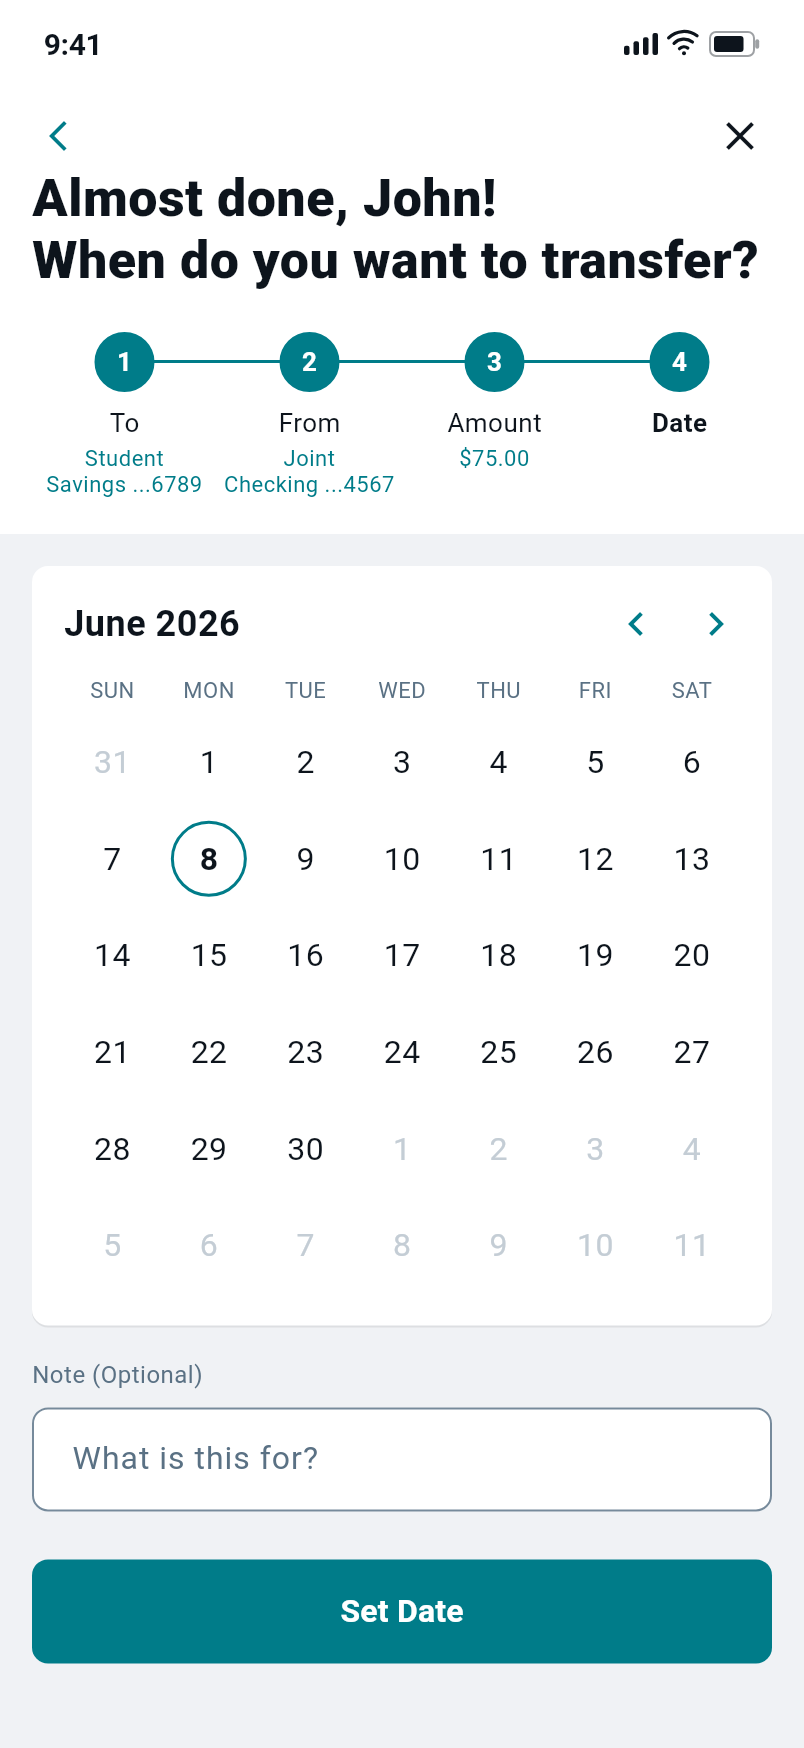
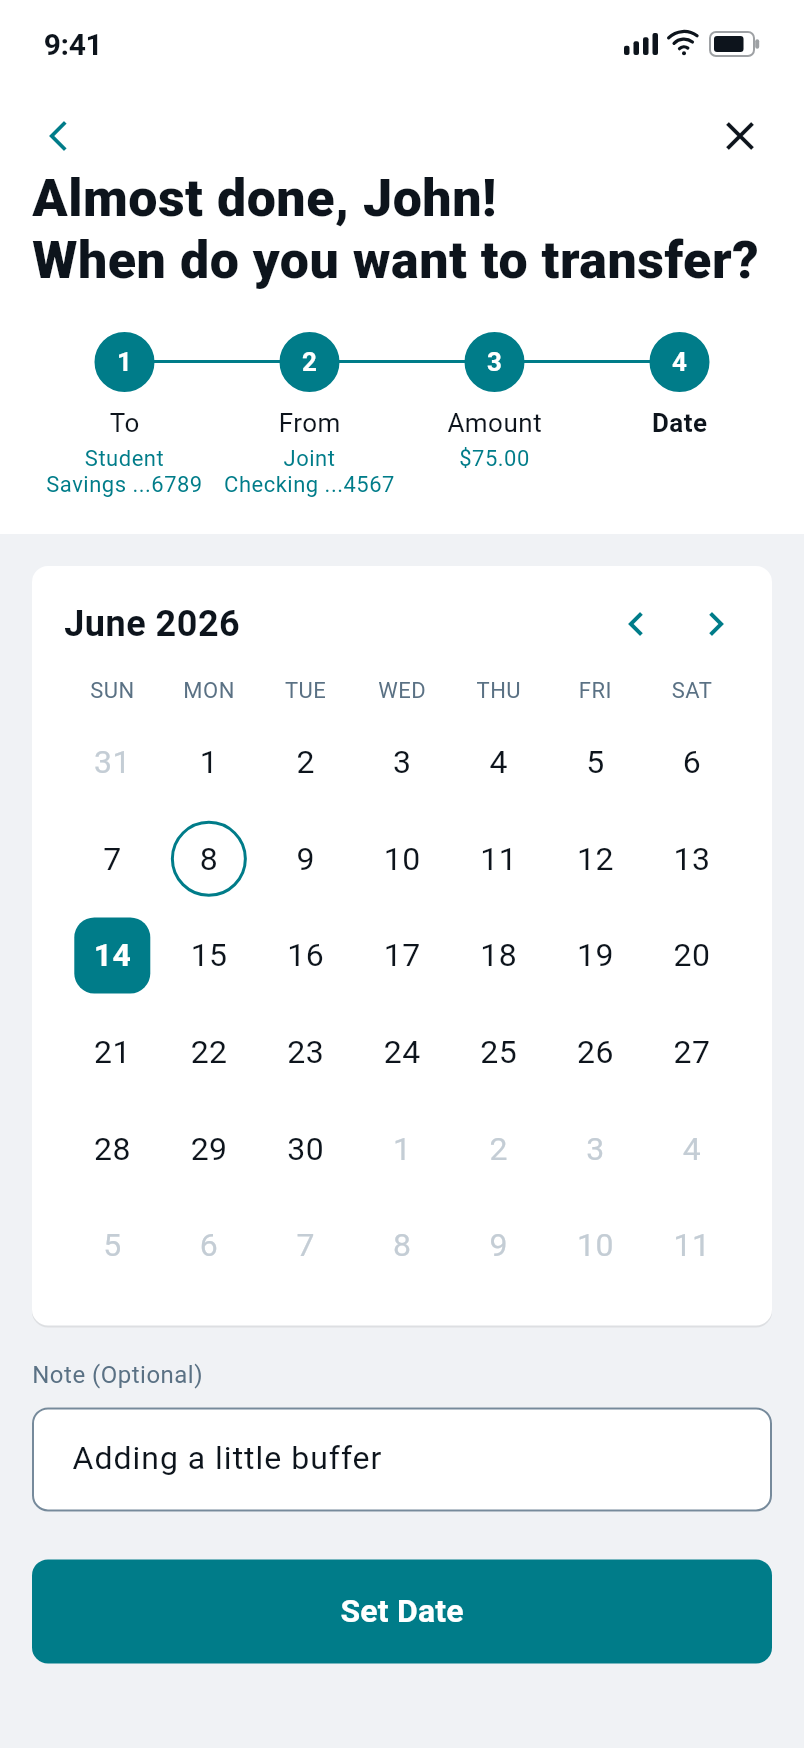
Add transfer review step and fix date calendar markers
Calendar now shows today (June 8) as a fixed open circle and the user's
chosen date as a filled rounded square; Set Date is gated on a
selection. Set Date opens a review screen listing To/From/Amount/Date/
Note, each with an edit pencil that jumps back to that step, plus a
Confirm action that completes the transfer.

https://claude.ai/code/session_01NuCKxaSF8m2VXGLc8nwLxh

diff --git a/lib/screens/transfer_screen.dart b/lib/screens/transfer_screen.dart
@@ -6,6 +6,7 @@ import '../data/mock_data.dart';
 import '../data/models.dart';
 import '../theme/app_theme.dart';
 import '../widgets/becu_logo.dart';
+import '../widgets/detail_row.dart';
 import '../widgets/surface_card.dart';
 
 /// Transfer flow with four steps tracked across the top:
@@ -18,7 +19,8 @@ class TransferScreen extends StatefulWidget {
     this.initialToAccount,
     this.initialFromAccount,
     this.initialAmountCents = 0,
-    this.initialSelectedDay = 8,
+    this.initialSelectedDay,
+    this.initialNote = '',
     this.initialKeypadOpen = false,
   });
 
@@ -26,7 +28,8 @@ class TransferScreen extends StatefulWidget {
   final Account? initialToAccount;
   final Account? initialFromAccount;
   final int initialAmountCents;
-  final int initialSelectedDay;
+  final int? initialSelectedDay;
+  final String initialNote;
   final bool initialKeypadOpen;
 
   @override
@@ -38,15 +41,22 @@ class _TransferScreenState extends State<TransferScreen> {
   late Account? _toAccount = widget.initialToAccount;
   late Account? _fromAccount = widget.initialFromAccount;
   late int _amountCents = widget.initialAmountCents;
-  late int _selectedDay = widget.initialSelectedDay;
+  late int? _selectedDay = widget.initialSelectedDay;
   late bool _keypadVisible = widget.initialKeypadOpen;
   final FocusNode _amountFocus = FocusNode();
+  late final TextEditingController _noteController =
+      TextEditingController(text: widget.initialNote);
+
+  /// Fixed "today" marker shown as an open circle on the calendar.
+  static const _todayDay = 8;
+
   bool _becuExpanded = true;
   bool _externalExpanded = true;
 
   @override
   void dispose() {
     _amountFocus.dispose();
+    _noteController.dispose();
     super.dispose();
   }
 
@@ -108,14 +118,18 @@ class _TransferScreenState extends State<TransferScreen> {
     }
   }
 
-  void _setDate() {
+  void _toReview() => setState(() => _step = 4);
+
+  void _editStep(int step) => setState(() => _step = step);
+
+  void _confirm() {
     ScaffoldMessenger.of(context)
       ..hideCurrentSnackBar()
       ..showSnackBar(
         SnackBar(
           content: Text(
-            'Transfer of ${formatCurrency(_amountCents / 100)} scheduled '
-            'for Jun $_selectedDay, 2026.',
+            'Transfer of ${formatCurrency(_amountCents / 100)} to '
+            '${_toAccount?.nickname ?? 'your account'} confirmed.',
           ),
         ),
       );
@@ -127,7 +141,8 @@ class _TransferScreenState extends State<TransferScreen> {
         1 => 'Where is the money from?',
         2 => 'How much would you like to transfer to '
             '${_toAccount?.nickname ?? 'your account'}?',
-        _ => 'Almost done, John!\nWhen do you want to transfer?',
+        3 => 'Almost done, John!\nWhen do you want to transfer?',
+        _ => "Let's confirm everything looks good to you.",
       };
 
   @override
@@ -184,12 +199,14 @@ class _TransferScreenState extends State<TransferScreen> {
                   ],
                   const SizedBox(height: 20),
                   _StepTracker(
-                    activeStep: _step,
+                    activeStep: _step > 3 ? 3 : _step,
                     subLabels: [
                       _toAccount?.displayName,
                       _fromAccount?.displayName,
                       _step >= 3 ? formatCurrency(_amountCents / 100) : null,
-                      null,
+                      _step >= 4 && _selectedDay != null
+                          ? 'June $_selectedDay, 2026'
+                          : null,
                     ],
                   ),
                   if (_step == 0) ...[
@@ -207,7 +224,8 @@ class _TransferScreenState extends State<TransferScreen> {
                 0 => _buildToList(),
                 1 => _buildFromList(),
                 2 => _buildAmountStep(),
-                _ => _buildDateStep(),
+                3 => _buildDateStep(),
+                _ => _buildReviewStep(),
               },
             ),
           ),
@@ -413,6 +431,7 @@ class _TransferScreenState extends State<TransferScreen> {
       padding: const EdgeInsets.fromLTRB(16, 16, 16, 24),
       children: [
         _CalendarCard(
+          todayDay: _todayDay,
           selectedDay: _selectedDay,
           onSelect: (day) => setState(() => _selectedDay = day),
           onMonthChange: () => _notice('Changing the month'),
@@ -422,6 +441,7 @@ class _TransferScreenState extends State<TransferScreen> {
             style: TextStyle(fontSize: 12, color: AppColors.slate)),
         const SizedBox(height: 8),
         TextField(
+          controller: _noteController,
           decoration: InputDecoration(
             hintText: 'What is this for?',
             hintStyle: const TextStyle(color: AppColors.slate),
@@ -444,9 +464,10 @@ class _TransferScreenState extends State<TransferScreen> {
           width: double.infinity,
           height: 52,
           child: ElevatedButton(
-            onPressed: _setDate,
+            onPressed: _selectedDay != null ? _toReview : null,
             style: ElevatedButton.styleFrom(
               backgroundColor: AppColors.teal,
+              disabledBackgroundColor: AppColors.monthBar,
               shape: RoundedRectangleBorder(
                 borderRadius: BorderRadius.circular(8),
               ),
@@ -457,6 +478,96 @@ class _TransferScreenState extends State<TransferScreen> {
                 color: Colors.white,
                 fontSize: 16,
                 fontWeight: FontWeight.w700,
+              ),
+            ),
+          ),
+        ),
+      ],
+    );
+  }
+
+  Widget _buildReviewStep() {
+    Widget editIcon(int step) => InkWell(
+          onTap: () => _editStep(step),
+          customBorder: const CircleBorder(),
+          child: const Padding(
+            padding: EdgeInsets.all(4),
+            child: Icon(Icons.edit_outlined, size: 20, color: AppColors.teal),
+          ),
+        );
+
+    return Column(
+      children: [
+        Expanded(
+          child: ListView(
+            padding: const EdgeInsets.fromLTRB(16, 16, 16, 24),
+            children: [
+              SurfaceCard(
+                padding: EdgeInsets.zero,
+                child: Column(
+                  children: [
+                    DetailRow(
+                      label: 'To',
+                      value: _toAccount?.displayName ?? '',
+                      trailing: editIcon(0),
+                    ),
+                    DetailRow(
+                      label: 'From',
+                      value: _fromAccount?.displayName ?? '',
+                      trailing: editIcon(1),
+                    ),
+                    DetailRow(
+                      label: 'Amount',
+                      value: formatCurrency(_amountCents / 100),
+                      trailing: editIcon(2),
+                    ),
+                    DetailRow(
+                      label: 'Date',
+                      value: 'June ${_selectedDay ?? _todayDay}, 2026',
+                      trailing: editIcon(3),
+                    ),
+                    DetailRow(
+                      label: 'Note',
+                      value: _noteController.text.isEmpty
+                          ? 'None'
+                          : _noteController.text,
+                      trailing: editIcon(3),
+                      showDivider: false,
+                    ),
+                  ],
+                ),
+              ),
+              const SizedBox(height: 12),
+              const Text(
+                'Funds are typically available in 1–2 business days.',
+                style: TextStyle(fontSize: 13, color: AppColors.slate),
+              ),
+            ],
+          ),
+        ),
+        SafeArea(
+          top: false,
+          child: Padding(
+            padding: const EdgeInsets.all(16),
+            child: SizedBox(
+              width: double.infinity,
+              height: 52,
+              child: ElevatedButton(
+                onPressed: _confirm,
+                style: ElevatedButton.styleFrom(
+                  backgroundColor: AppColors.teal,
+                  shape: RoundedRectangleBorder(
+                    borderRadius: BorderRadius.circular(8),
+                  ),
+                ),
+                child: const Text(
+                  'Confirm',
+                  style: TextStyle(
+                    color: Colors.white,
+                    fontSize: 16,
+                    fontWeight: FontWeight.w700,
+                  ),
+                ),
               ),
             ),
           ),
@@ -709,12 +820,14 @@ class _KeypadKey extends StatelessWidget {
 
 class _CalendarCard extends StatelessWidget {
   const _CalendarCard({
+    required this.todayDay,
     required this.selectedDay,
     required this.onSelect,
     required this.onMonthChange,
   });
 
-  final int selectedDay;
+  final int todayDay;
+  final int? selectedDay;
   final ValueChanged<int> onSelect;
   final VoidCallback onMonthChange;
 
@@ -785,6 +898,8 @@ class _CalendarCard extends StatelessWidget {
                       cell: cells[row * 7 + col],
                       selected: cells[row * 7 + col].$2 &&
                           cells[row * 7 + col].$1 == selectedDay,
+                      isToday: cells[row * 7 + col].$2 &&
+                          cells[row * 7 + col].$1 == todayDay,
                       onSelect: onSelect,
                     ),
                   ),
@@ -800,38 +915,50 @@ class _DayCell extends StatelessWidget {
   const _DayCell({
     required this.cell,
     required this.selected,
+    required this.isToday,
     required this.onSelect,
   });
 
   final (int, bool) cell;
   final bool selected;
+  final bool isToday;
   final ValueChanged<int> onSelect;
 
   @override
   Widget build(BuildContext context) {
     final day = cell.$1;
     final inMonth = cell.$2;
+    // Today is a fixed marker (open circle) and can't be re-selected; any
+    // other in-month day can be chosen and renders as a filled square.
+    final BoxDecoration? decoration = selected
+        ? BoxDecoration(
+            color: AppColors.teal,
+            borderRadius: BorderRadius.circular(10),
+          )
+        : isToday
+            ? BoxDecoration(
+                shape: BoxShape.circle,
+                border: Border.all(color: AppColors.teal, width: 1.5),
+              )
+            : null;
     return AspectRatio(
       aspectRatio: 1,
       child: InkWell(
-        onTap: inMonth ? () => onSelect(day) : null,
+        onTap: inMonth && !isToday ? () => onSelect(day) : null,
         customBorder: const CircleBorder(),
         child: Center(
           child: Container(
             width: 38,
             height: 38,
             alignment: Alignment.center,
-            decoration: selected
-                ? BoxDecoration(
-                    shape: BoxShape.circle,
-                    border: Border.all(color: AppColors.teal, width: 1.5),
-                  )
-                : null,
+            decoration: decoration,
             child: Text(
               '$day',
               style: TextStyle(
                 fontSize: 16,
-                color: inMonth ? AppColors.navy : const Color(0xFFC4CDD5),
+                color: selected
+                    ? Colors.white
+                    : (inMonth ? AppColors.navy : const Color(0xFFC4CDD5)),
                 fontWeight: selected ? FontWeight.w700 : FontWeight.w400,
               ),
             ),

diff --git a/test/widget_test.dart b/test/widget_test.dart
@@ -172,9 +172,25 @@ void main() {
     await tester.tap(continueBtn);
     await tester.pumpAndSettle();
 
-    // Date step with the calendar.
+    // Date step with the calendar; pick a day, then continue to review.
     expect(find.textContaining('When do you want to'), findsOneWidget);
     expect(find.text('June 2026'), findsOneWidget);
-    expect(find.text('Set Date'), findsOneWidget);
+    await tester.tap(find.text('14'));
+    await tester.pumpAndSettle();
+    await tester.tap(find.text('Set Date'));
+    await tester.pumpAndSettle();
+
+    // Review step.
+    expect(find.textContaining('confirm everything looks good'), findsOneWidget);
+    expect(find.text('Confirm'), findsOneWidget);
+    expect(
+      find.text('Funds are typically available in 1–2 business days.'),
+      findsOneWidget,
+    );
+
+    // The Amount edit pencil returns to the Amount step.
+    await tester.tap(find.byIcon(Icons.edit_outlined).at(2));
+    await tester.pumpAndSettle();
+    expect(find.textContaining('How much would you like'), findsOneWidget);
   });
 }

diff --git a/test/screenshots_test.dart b/test/screenshots_test.dart
@@ -81,6 +81,16 @@ void main() {
       initialToAccount: checkingAndSavings[2],
       initialFromAccount: jointChecking,
       initialAmountCents: 7500,
+      initialSelectedDay: 14,
+      initialNote: 'Adding a little buffer',
+    ),
+    'transfer_review': TransferScreen(
+      initialStep: 4,
+      initialToAccount: checkingAndSavings[2],
+      initialFromAccount: jointChecking,
+      initialAmountCents: 7500,
+      initialSelectedDay: 14,
+      initialNote: 'Adding a little buffer',
     ),
     'transaction_details': TransactionDetailScreen(
       transaction: pendingTransactions.first,
